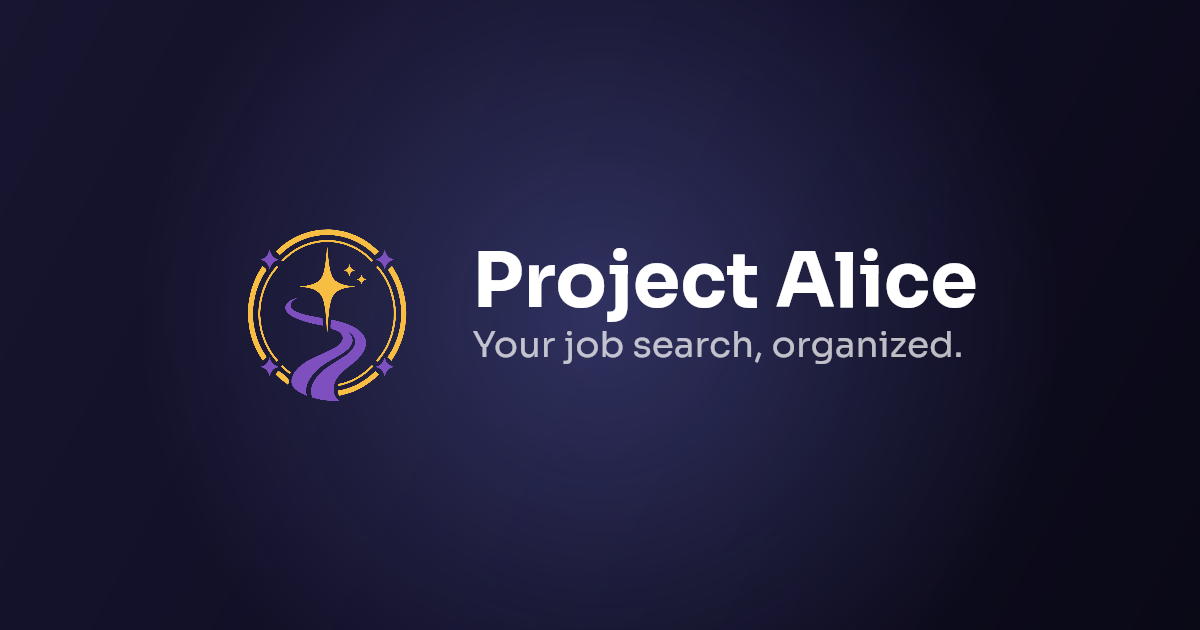
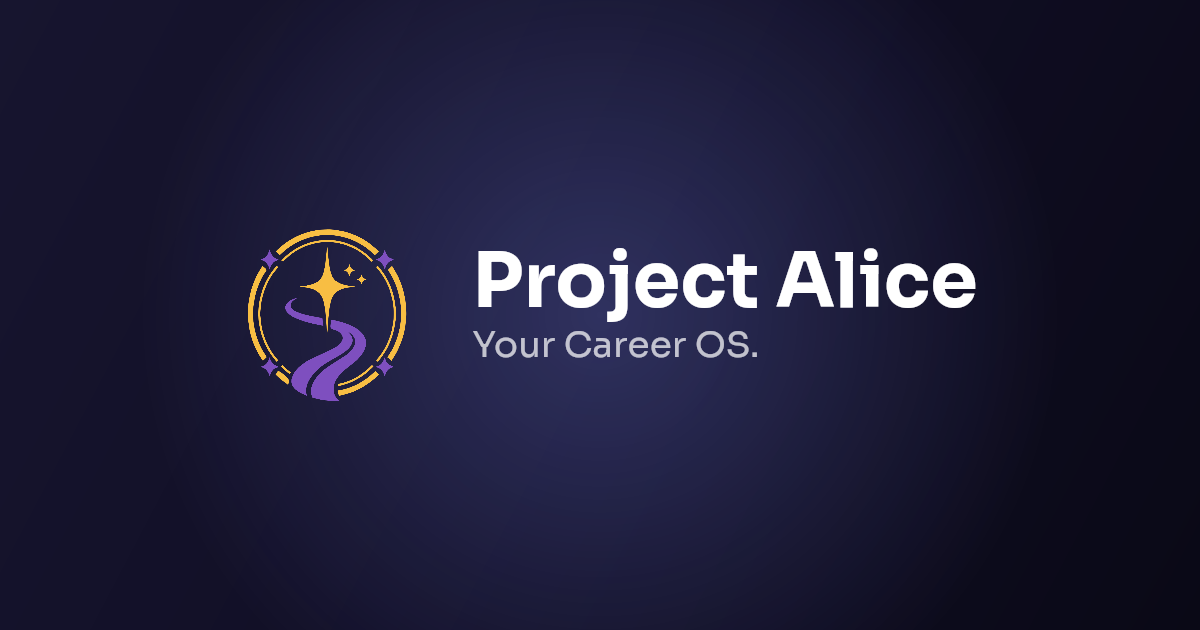
v2.0.0 final polish: repo housekeeping + Career OS repositioning (#142)
* Fix broken math rendering in compatibility_scoring.md (issue #141)

GitHub's markdown pipeline strips a layer of backslash-escaping from
punctuation characters inside $...$/$$...$$ blocks before KaTeX runs,
corrupting \#, \,, \;, \!, \{, \}, \% and \ row-breaks throughout the
doc (not just Section 6) — hard KaTeX errors, stray commas, and a
silently-vanishing percent sign. Removed the decorative spacing
commands, moved percent signs out of math mode, dropped the \#{...}
cardinality notation for plain labels, and double-escaped the two
spots that need literal braces.

* Reposition Alice as a Career OS across hero, footer, README, and SEO meta (issue #141)

Updates the primary tagline from "Your job search, organized." to
"Your Career OS." consistently across the welcome hero headline, app
footer, index.html meta/OG/Twitter tags, the generated OG social
image, and README's title/opening line — matching the "Career OS, not
AI Career OS" positioning direction in #141 (AI describes
implementation, not identity). GitHub repo description, homepage
(alice-os.app), and topics updated to match.

Left feature names (Tracker, Dashboard, Profile, Calendar), empty
states, onboarding copy, and tooltips untouched — those are
functional, not brand-identity copy, per the issue's own guidance not
to rename features for branding's sake.

* chore: dummy commit

* Fix overselling hero copy, unbalanced headline break, and stale design docs
[…]

Changed region(s): [[0.4625, 0.5127, 0.8017, 0.573]]

diff --git a/tests/components/welcome.test.js b/tests/components/welcome.test.js
@@ -136,14 +136,13 @@ describe('WelcomePage — structure', () => {
     expect(text?.textContent).toBe('Project Alice');
   });
 
-  it('renders the headline with the fixed line break', () => {
+  it('renders the headline as a single flowing line, no forced break', () => {
     WelcomePage.mount(container, { heroSlideshow: heroSlideshowStub });
 
     const headline = container.querySelector('.welcome__headline');
     expect(headline).not.toBeNull();
-    expect(headline.textContent).toContain('Your job search,');
-    expect(headline.textContent).toContain('organized.');
-    expect(headline.querySelector('br')).not.toBeNull();
+    expect(headline.textContent).toBe('Your Career OS.');
+    expect(headline.querySelector('br')).toBeNull();
   });
 
   it('renders the three CTAs in order (Sign In, Create Account, Try the demo)', () => {
@@ -160,12 +159,12 @@ describe('WelcomePage — structure', () => {
     expect(ctas[2].disabled).toBe(false);
   });
 
-  it('headline accents "organized." with an indigo em element', () => {
+  it('headline accents "Career OS." with an indigo em element', () => {
     WelcomePage.mount(container, { heroSlideshow: heroSlideshowStub });
 
     const accent = container.querySelector('.welcome__headline em.welcome__headline-accent');
     expect(accent).not.toBeNull();
-    expect(accent.textContent).toBe('organized.');
+    expect(accent.textContent).toBe('Career OS.');
   });
 
   it('renders the mini footer with version, issue links, repo link, and download chip sourced from appMeta', () => {
@@ -218,7 +217,7 @@ describe('WelcomePage — structure', () => {
     expect(links[4].classList.contains('welcome__footer-desktop-only')).toBe(true);
 
     // [5] download chip (desktop-only)
-    expect(links[5].textContent).toBe(`Download Alice Portable ${APP_VERSION}`);
+    expect(links[5].textContent).toBe('Download Alice Portable');
     expect(links[5].getAttribute('href')).toBe(
       'https://github.com/reso830/Project_Alice/releases/latest',
     );

diff --git a/src/components/Footer.js b/src/components/Footer.js
@@ -36,7 +36,7 @@ function createBrand() {
   tagline.className = 'footer__tagline';
   version.className = 'footer__version-inline';
   name.textContent = 'Project Alice';
-  tagline.textContent = 'Your job search, organized.';
+  tagline.textContent = 'Your Career OS.';
   version.textContent = displayVersion(APP_VERSION);
 
   line1.append(name, tagline);
@@ -55,16 +55,10 @@ function createModeControl(runtime) {
     link.textContent = 'Open hosted version ↗';
     link.setAttribute('aria-label', 'Open hosted version');
   } else {
-    const label = document.createElement('span');
-    const version = document.createElement('span');
-
     link.className = 'footer__download';
     link.href = RELEASES_URL;
-    link.setAttribute('aria-label', `Download Project Alice ${displayVersion(APP_VERSION)}`);
-    label.textContent = 'Download Portable Alice';
-    version.className = 'footer__download-version';
-    version.textContent = displayVersion(APP_VERSION);
-    link.append(label, version);
+    link.setAttribute('aria-label', 'Download Project Alice Portable');
+    link.textContent = 'Download Portable Alice';
   }
 
   link.target = '_blank';

diff --git a/src/pages/welcome/WelcomePage.js b/src/pages/welcome/WelcomePage.js
@@ -218,11 +218,10 @@ function renderBrand({ theme = 'warm' } = {}) {
 function renderHeadline() {
   const headline = document.createElement('h1');
   headline.className = 'welcome__headline';
-  headline.append(document.createTextNode('Your job search,'));
-  headline.append(document.createElement('br'));
+  headline.append(document.createTextNode('Your '));
   const accent = document.createElement('em');
   accent.className = 'welcome__headline-accent';
-  accent.textContent = 'organized.';
+  accent.textContent = 'Career OS.';
   headline.append(accent);
   return headline;
 }
@@ -231,7 +230,7 @@ function renderSupportingCopy() {
   return el(
     'p',
     'welcome__supporting',
-    'Track every application and surface the right next move — from first apply to signed offer.',
+    'Track every application and see how you match — all in one place, on your terms.',
   );
 }
 
@@ -409,9 +408,9 @@ function renderFooterMeta() {
   repo.classList.add('welcome__footer-desktop-only');
 
   const download = makeExternalLink(
-    `Download Alice Portable ${APP_VERSION}`,
+    'Download Alice Portable',
     RELEASES_URL,
-    `Download Alice Portable ${APP_VERSION}`,
+    'Download Alice Portable',
   );
   download.classList.add('welcome__footer-download', 'welcome__footer-desktop-only');
   download.prepend(createDownloadIcon());

diff --git a/src/styles/main.css b/src/styles/main.css
@@ -5323,10 +5323,6 @@ textarea.modal-inline-control {
   content: "↓";
 }
 
-.footer__download-version {
-  color: rgba(255, 255, 255, .55);
-}
-
 .footer__download:hover,
 .footer__download:focus-visible,
 .footer__hosted-link:hover,
@@ -5334,11 +5330,6 @@ textarea.modal-inline-control {
   border-color: var(--indigo);
   background: var(--indigo);
   color: #FFFFFF;
-}
-
-.footer__download:hover .footer__download-version,
-.footer__download:focus-visible .footer__download-version {
-  color: rgba(255, 255, 255, .8);
 }
 
 /* Download / hosted-link control is desktop-only chrome; tablet and mobile
@@ -7454,7 +7445,7 @@ button[aria-busy="true"] {
   margin: 0;
 }
 
-/* Phase 14: indigo "organized." accent with a soft underline-glow. */
+/* Phase 14: indigo accent word with a soft underline-glow. */
 .welcome__headline-accent {
   position: relative;
   color: var(--indigo);

diff --git a/index.html b/index.html
@@ -4,22 +4,22 @@
     <meta charset="UTF-8">
     <meta name="viewport" content="width=device-width, initial-scale=1.0">
     <title>Project Alice</title>
-    <meta name="description" content="Track every job application and surface the right next move — from first apply to signed offer.">
+    <meta name="description" content="Your Career OS — track every application and see how you match, all in one place.">
     <!-- Issue #139: canonical production domain. -->
     <link rel="canonical" href="https://alice-os.app/">
 
     <meta property="og:type" content="website">
     <meta property="og:site_name" content="Project Alice">
-    <meta property="og:title" content="Project Alice — Your job search, organized.">
-    <meta property="og:description" content="Track every job application and surface the right next move — from first apply to signed offer.">
+    <meta property="og:title" content="Project Alice — Your Career OS">
+    <meta property="og:description" content="Track every application and see how you match, all in one place.">
     <meta property="og:url" content="https://alice-os.app/">
     <meta property="og:image" content="https://alice-os.app/og-image.png">
     <meta property="og:image:width" content="1200">
     <meta property="og:image:height" content="630">
 
     <meta name="twitter:card" content="summary_large_image">
-    <meta name="twitter:title" content="Project Alice — Your job search, organized.">
-    <meta name="twitter:description" content="Track every job application and surface the right next move — from first apply to signed offer.">
+    <meta name="twitter:title" content="Project Alice — Your Career OS">
+    <meta name="twitter:description" content="Track every application and see how you match, all in one place.">
     <meta name="twitter:image" content="https://alice-os.app/og-image.png">
 
     <link rel="icon" href="/favicon.ico" sizes="any">

diff --git a/tests/components/Footer.test.js b/tests/components/Footer.test.js
@@ -129,8 +129,7 @@ describe('Footer', () => {
 
     expect(link).not.toBeNull();
     expect(link.href).toBe('https://github.com/reso830/Project_Alice/releases/latest');
-    expect(link.textContent).toContain('Download Portable Alice');
-    expect(link.textContent).toContain(APP_VERSION);
+    expect(link.textContent).toBe('Download Portable Alice');
   });
 
   it('renders the hosted-version link for local runtime', () => {

diff --git a/docs/compatibility_scoring.md b/docs/compatibility_scoring.md
@@ -30,8 +30,8 @@ The weights are **defaults**, not laws — they are configurable, and any catego
 
 Throughout, let:
 
-- $C$ — the set of skills in your profile, each with a proficiency level $\ell \in \{1,2,3,4,5\}$.
-- A matched skill contributes its **proficiency fraction** $\dfrac{\ell}{5}\in\{0.2,\dots,1.0\}$ — an expert (5) counts fully, a beginner (1) counts a fifth.
+- $C$ — the set of skills in your profile, each with a proficiency level $\ell \in \\{1,2,3,4,5\\}$.
+- A matched skill contributes its **proficiency fraction** $\dfrac{\ell}{5}\in\\{0.2,\dots,1.0\\}$ — an expert (5) counts fully, a beginner (1) counts a fifth.
 - For any piece of text, its **significant words** are its words lowercased, with spacing normalised, with very common filler words removed, and duplicates collapsed. $|X|$ is the number of items in a set $X$.
 
 ---
@@ -49,23 +49,23 @@ chosen so that *a preferred skill at proficiency 4 carries about the same as a r
 The skills sub-score is a single **pooled, weighted coverage** fraction. Skills you have contribute their proficiency fraction; skills you lack contribute nothing but still count against you in the denominator:
 
 $$
-\text{skills} \;=\;
-\frac{\displaystyle\sum_{s\,\in\,R\cap C}\frac{\ell_s}{5}\;+\;w\sum_{s\,\in\,P\cap C}\frac{\ell_s}{5}}
-{\,|R|\;+\;w\,|P|\,}
+\text{skills}=
+\frac{\displaystyle\sum_{s \in R\cap C}\frac{\ell_s}{5}+w\sum_{s \in P\cap C}\frac{\ell_s}{5}}
+{|R|+w|P|}
 $$
 
 Two guards complete it:
 
 - **No required skills matched.** If the job lists required skills but you match *none* of them, the sub-score is capped:
-$$\text{skills}\;=\;\min\!\big(0.35,\ \text{skills}\big)$$
+$$\text{skills}=\min\big(0.35, \text{skills}\big)$$
 so strong nice-to-haves can never disguise the fact that you fail the actual requirements.
 
-- **A posting with no required skills.** If the job lists only preferred skills, the $w$ in numerator and denominator cancels and the formula naturally becomes plain coverage of the preferred list — which can reach $100\%$ if you have them all. If the job lists no skills at all, the category is dropped (§7).
+- **A posting with no required skills.** If the job lists only preferred skills, the $w$ in numerator and denominator cancels and the formula naturally becomes plain coverage of the preferred list — which can reach 100% if you have them all. If the job lists no skills at all, the category is dropped (§7).
 
 ### Why it behaves well
 
 - **A required match always counts at least as much as the same skill listed as preferred.** Because required carries the full weight and preferred only $0.69$, moving a skill from preferred to required can only help — there is no way for a "nice to have" to out-score a true requirement.
-- **Misses always count.** A skill you lack stays in the denominator, so matching five of six strong requirements lands near $\tfrac{5}{6}$, not $100\%$. Only a *complete and expert* match reaches the top.
+- **Misses always count.** A skill you lack stays in the denominator, so matching five of six strong requirements lands near $\tfrac{5}{6}$, not 100%. Only a *complete and expert* match reaches the top.
 
 ### Worked example
 
@@ -84,7 +84,7 @@ Two things hold you under $1.0$: the one requirement you miss (it stays in the d
 Let $T$ be the significant words of the **job title**, and $G$ the significant words of your **past role titles together with your summary**. The sub-score is how much of the title your background echoes:
 
 $$
-\text{role}=\frac{|\,T\cap G\,|}{|\,T\,|}
+\text{role}=\frac{|T\cap G|}{|T|}
 $$
 
 If the job has no title, or your profile offers no roles or summary, the category is dropped.
@@ -96,7 +96,7 @@ If the job has no title, or your profile offers no roles or summary, the categor
 A job may state a **minimum number of years**, $y_{\text{req}}$ (the "Min Years" field; most postings leave it blank). Your **years of experience** $y_{\text{cand}}$ are added up from your work history — for each job, the time from its start to its end, using *today* for a job you still hold:
 
 $$
-y_{\text{cand}}=\sum_{\text{jobs}}\big(\text{end date}-\text{start date}\big)\ \text{in years}
+y_{\text{cand}}=\sum_{\text{jobs}}\big(\text{end date}-\text{start date}\big)\text{ in years}
 $$
 
 When a minimum is stated, experience is graded by how close you come, and meeting it is enough (there is no bonus for being wildly over-qualified):
@@ -104,8 +104,8 @@ When a minimum is stated, experience is graded by how close you come, and meetin
 $$
 \text{experience}=
 \begin{cases}
-1 & y_{\text{cand}}\ \ge\ y_{\text{req}}\\[4pt]
-\dfrac{y_{\text{cand}}}{y_{\text{req}}} & y_{\text{cand}}\ <\ y_{\text{req}}
+1 & y_{\text{cand}}\ge y_{\text{req}}\\\\[4pt]
+\dfrac{y_{\text{cand}}}{y_{\text{req}}} & y_{\text{cand}}<y_{\text{req}}
 \end{cases}
 $$
 
@@ -127,15 +127,15 @@ If the job states no minimum at all (the common case), experience is dropped reg
 **Keywords** is a coarse vocabulary overlap. Let $J$ be the significant words of the posting (its responsibilities, title, and listed skills) and $F$ the significant words of your profile (summary, the descriptions of your past work, and your skill names):
 
 $$
-\text{keywords}=\frac{|\,J\cap F\,|}{|\,J\,|}
+\text{keywords}=\frac{|J\cap F|}{|J|}
 $$
 
 It is bounded between $0$ and $1$ by construction, so a long, keyword-stuffed posting cannot dominate.
 
-**Certifications.** Each of your certifications is reduced to its significant words. A certification is considered "mentioned" if most of its words (at least $60\%$) appear in the posting's text. The sub-score is the share of your certifications that are mentioned:
+**Certifications.** Each of your certifications is reduced to its significant words. A certification is considered "mentioned" if most of its words (at least 60%) appear in the posting's text. The sub-score is the share of your certifications that are mentioned:
 
 $$
-\text{certifications}=\frac{\#\{\text{your certifications mentioned in the posting}\}}{\#\{\text{your certifications}\}}
+\text{certifications}=\frac{\text{certifications mentioned in the posting}}{\text{your certifications}}
 $$
 
 If you list no certifications, or the posting has no text, the category is dropped.
@@ -147,7 +147,7 @@ If you list no certifications, or the posting has no text, the category is dropp
 Only categories that have something to compare on **both** sides are "active." The final score is the weighted average of the active categories' sub-scores, with the active weights **rebalanced to add up to the whole** — so a dropped category never silently drags the result up or down:
 
 $$
-S = 100 \times \frac{\displaystyle\sum_{c\,\in\,\text{active}} \omega_c\cdot \text{score}_c}{\displaystyle\sum_{c\,\in\,\text{active}} \omega_c}
+S = 100 \times \frac{\displaystyle\sum_{c \in \text{active}} \omega_c\cdot \text{score}_c}{\displaystyle\sum_{c \in \text{active}} \omega_c}
 $$
 
 where $\omega_c$ is the weight of category $c$. If no category is active, the score is $0$.

diff --git a/docs/design/welcome_page.md b/docs/design/welcome_page.md
@@ -79,8 +79,8 @@ The page has **four** layout modes selectable via the `layout` Tweak (`diagonal`
 │                            │                        │
 │  [logo]  Project Alice     │   ╱  Hero slideshow    │
 │                            │  ╱   (navy slab)       │
-│  Your job search,          │ ╱                      │
-│  organized.                │╱                       │
+│  Your Career OS.           │ ╱                      │
+│                            │╱                       │
 │                            │                        │
 │  [Sign in →][Create][Demo] │                        │
 │                            │                        │
@@ -108,8 +108,8 @@ Rendered in `Welcome Tablet.html` by embedding `Welcome.html?layout=centered` in
 │            [logo]                    │
 │        Project Alice                 │
 │                                      │
-│       Your job search,               │
-│         organized.                   │
+│           Your Career OS.            │
+│                                      │
 │                                      │
 │   [Sign in →] [Create] [Demo]        │
 │                                      │
@@ -143,8 +143,8 @@ A simplified portrait screen — **not** a squished desktop. No slideshow, no di
 │   [logo, 68px]     │  ← brand stack (left-aligned)
 │   Project Alice    │
 │                    │
-│   Your job search, │  ← headline
-│   organized.       │
+│   Your Career OS.  │  ← headline
+│                    │
 │                    │
 │                    │  ← flex spacer (margin-top: auto)
 │                    │
@@ -164,7 +164,7 @@ A simplified portrait screen — **not** a squished desktop. No slideshow, no di
 
 - **Container** — `.mw`: `width: 100%; height: 100%; background: var(--warm); display: flex; flex-direction: column; padding: 96px 28px 56px`. The 96px top padding clears the dynamic island + status bar.
 - **Brand stack** — left-aligned column, `gap: 18px`. Logo 68×68 (`alice-sigil-full.svg`), wordmark Sora 700 / 32px / `-.6px` tracking.
-- **Headline** — 38px / `-1.2px` tracking / line-height 1.04 / `text-wrap: balance`. "organized." rendered in indigo with the same underline-glow `::after` as desktop.
+- **Headline** — 38px / `-1.2px` tracking / line-height 1.04 / `text-wrap: balance`. "Career OS." rendered in indigo with the same underline-glow `::after` as desktop.
 - **CTA group** — `margin-top: auto` anchors it to the lower half. Buttons are **full-width**, 12px radius, 16px / 20px padding, 15px font, vertical stack with 10px gap. Pulsing green dot on the ghost "Try the demo" button (`mw-pulse` 1.8s infinite).
 - No slideshow and no prototyping controls at this viewport. The mini footer remains visible. The Auth Modal is still mounted — tapping Sign in / Create account opens it in the same overlay used on desktop.
 
@@ -180,7 +180,7 @@ A simplified portrait screen — **not** a squished desktop. No slideshow, no di
 - Gap 14px (desktop) / 18px (mobile, stacked).
 
 ### 4.2 Headline
-- Copy: `Your job search,\n<em>organized.</em>`
+- Copy: `Your <em>Career OS.</em>` (single flowing line, no forced break; wraps naturally via `text-wrap: balance`)
 - Sora 700; desktop `clamp(40px, 5.8vw, 84px)`, mobile 38px.
 - Line-height `1.02`, tracking `-2px` (desktop) / `-1.2px` (mobile).
 - `text-wrap: balance`.

diff --git a/docs/design/updates.md b/docs/design/updates.md
@@ -69,15 +69,20 @@ copyright line) — see [`footer.md`](footer.md) for the full footer spec.
 
 ### Hosted — Download button
 ```
-[Alice logo] Project Alice  Your job search, organized.        [ ↓ Download  v1.8.0 ]
+[Alice logo] Project Alice  Your Career OS.                    [ ↓ Download Portable Alice ]
 ```
 - Element: `<a class="fdl-btn">`, OS-agnostic — points to the **latest GitHub
   release** (`https://github.com/reso830/Project_Alice/releases/latest`).
-- Label is simply **Download** + a muted mono version chip (`v1.8.0`, bound to
-  `APP_VERSION`). A download glyph leads.
+- Label is simply **Download Portable Alice**. A download glyph leads.
 - Style: translucent white surface (`rgba(255,255,255,.06)`), `1px` hairline
   border (`rgba(255,255,255,.14)`), `--r-sm`. **Hover → indigo** fill + border.
-- The version chip dims to `rgba(255,255,255,.55)` (→ `.8` on hover).
+
+> **No version number on this chip:** `APP_VERSION` (the running build's
+> version, bumped per-feature) and the actual latest cut GitHub Release
+> (bumped in batches) can drift apart — the link always resolves to
+> whatever release is actually live, so labeling the chip with `APP_VERSION`
+> could advertise a version the link doesn't deliver. The chip stays
+> version-agnostic; the real version is visible on the release page itself.
 
 > **OS handling:** a single link, deliberately platform-agnostic. Because Alice
 > is a web app, there are no per-OS binaries to disambiguate — the release page
@@ -85,7 +90,7 @@ copyright line) — see [`footer.md`](footer.md) for the full footer spec.
 
 ### Local — hosted link
 ```
-[Alice logo] Project Alice  Your job search, organized.        Open hosted version ↗
+[Alice logo] Project Alice  Your Career OS.                    Open hosted version ↗
 ```
 - Element: `<a class="fhosted">` — mono, muted (`rgba(255,255,255,.5)`), external
   arrow glyph; **hover → white**. No button chrome.

diff --git a/README.md b/README.md
@@ -1,6 +1,6 @@
-# Project Alice — Application Tracker
+# Project Alice — Your Career OS
 
-A local-first job application tracker built with vanilla JavaScript, Vite, and a SQLite-backed Express API. Review applications, inspect details, update statuses, star priority leads, copy saved job URLs, and archive records.
+A local-first Career OS built with vanilla JavaScript, Vite, and a SQLite-backed Express API. Track every application and see how you match — review applications, inspect details, update statuses, star priority leads, copy saved job URLs, and archive records.
 
 ## Features
 

diff --git a/docs/design/pagination_footer.md b/docs/design/pagination_footer.md
@@ -124,7 +124,7 @@ A persistent site footer rendered at the bottom of every page view. Dark-themed 
 **Desktop (≥ 640px)** — 3-column grid inside a max-width container:
 ```
 ┌─────────────────────────────────────────────────────┐
-│  [Alice icon] Project Alice  Your job search, org…  │  ← brand (full width)
+│  [Alice icon] Project Alice  Your Career OS.        │  ← brand (full width)
 │ ─────────────────────────────────────────────────── │  ← <hr>
 │  VERSION         STACK            FEEDBACK          │
 │  v0.3.0          Vanilla JS · Vite Report an issue  │
@@ -142,7 +142,7 @@ A persistent site footer rendered at the bottom of every page view. Dark-themed 
 
 | Section | Label | Content | Interactive? |
 |---|---|---|---|
-| Brand | — | Alice icon + "Project Alice" + "Your job search, organized." | No |
+| Brand | — | Alice icon + "Project Alice" + "Your Career OS." | No |
 | Version | `VERSION` | `v0.3.0`, `Built Apr 2026` | No |
 | Stack | `STACK` | `Vanilla JS · Vite`, `Vitest · ESLint` | No |
 | Feedback | `FEEDBACK` | "Report an issue", "Request a feature" | Yes (links) |

diff --git a/docs/design/footer.md b/docs/design/footer.md
@@ -54,7 +54,7 @@ All copy is verbatim from source; version/license values resolve from `appMeta.j
 |---------|-------|---------|
 | Logo | `.footer__brand-icon` | `alice-sigil-full.svg` (`alt=""`, `aria-hidden="true"`) |
 | Name | `.footer__brand-name` | "Project Alice" |
-| Tagline | `.footer__tagline` | "Your job search, organized." |
+| Tagline | `.footer__tagline` | "Your Career OS." |
 
 ### Sections (`.footer__section`)
 Each is a `<section>` with an uppercase `.footer__label` and one or more